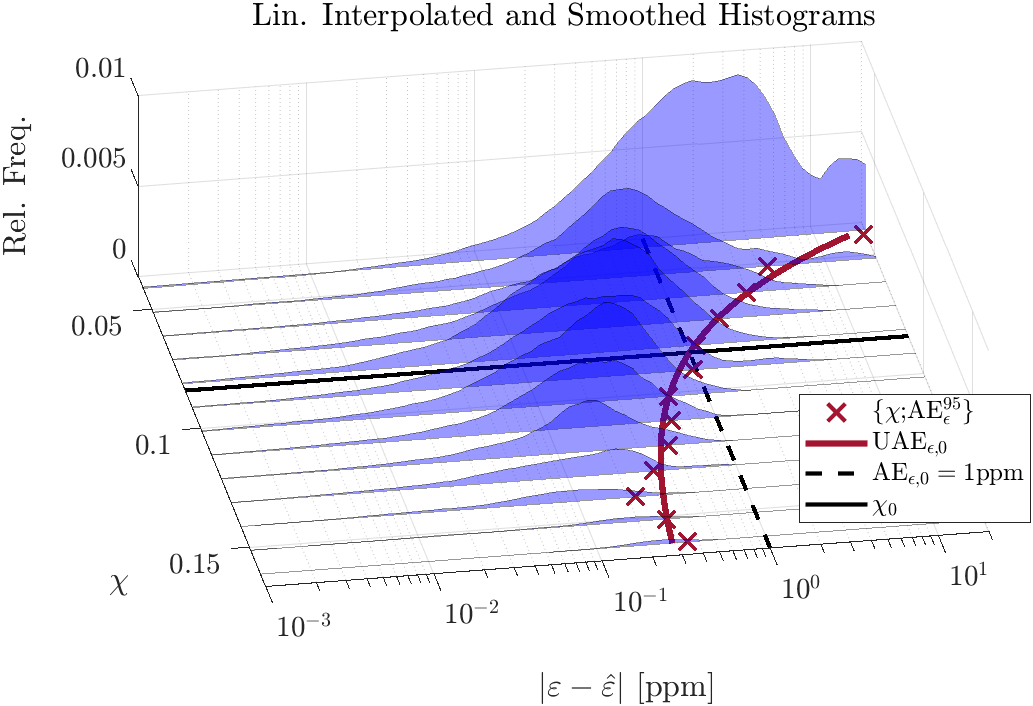
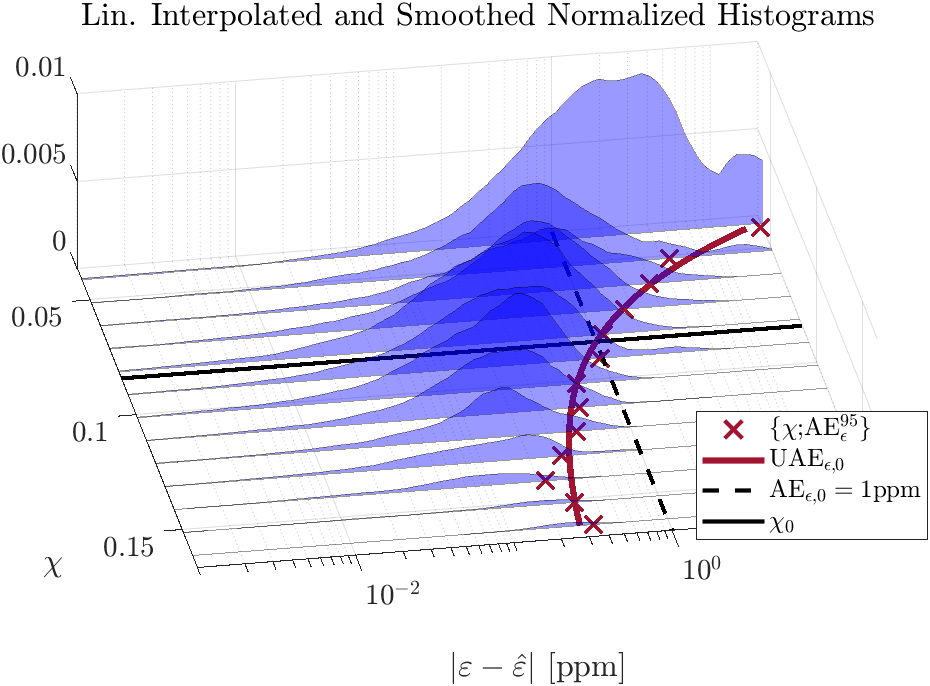
updated plot axis labels

diff --git a/work/iii_ACS_SRO_Est_Err_PercentileFit.m b/work/iii_ACS_SRO_Est_Err_PercentileFit.m
@@ -97,10 +97,9 @@ plt_95 = plot3(chi_bin_centers, sro_absErr_values, zeros(size(sro_absErr_values)
 plt_fit = plot3(fit_x, fit_y, zeros(size(fit_y)), 'LineWidth', 3, 'Color', '#A2142F'); 
 xlabel('$\chi$');
 ylabel('$|\varepsilon - \hat{\varepsilon}|$ [ppm]');
-zlabel('Rel. Freq.');
 xlim([chi_bin_edges(1), chi_bin_edges(end)]);
 view(80, 60);
-title('Lin. Interpolated and Smoothed Histograms');
+title('Lin. Interpolated and Smoothed Normalized Histograms');
 set(gca, 'YScale', 'log');
 ylim([1e-3, 20]);
 
